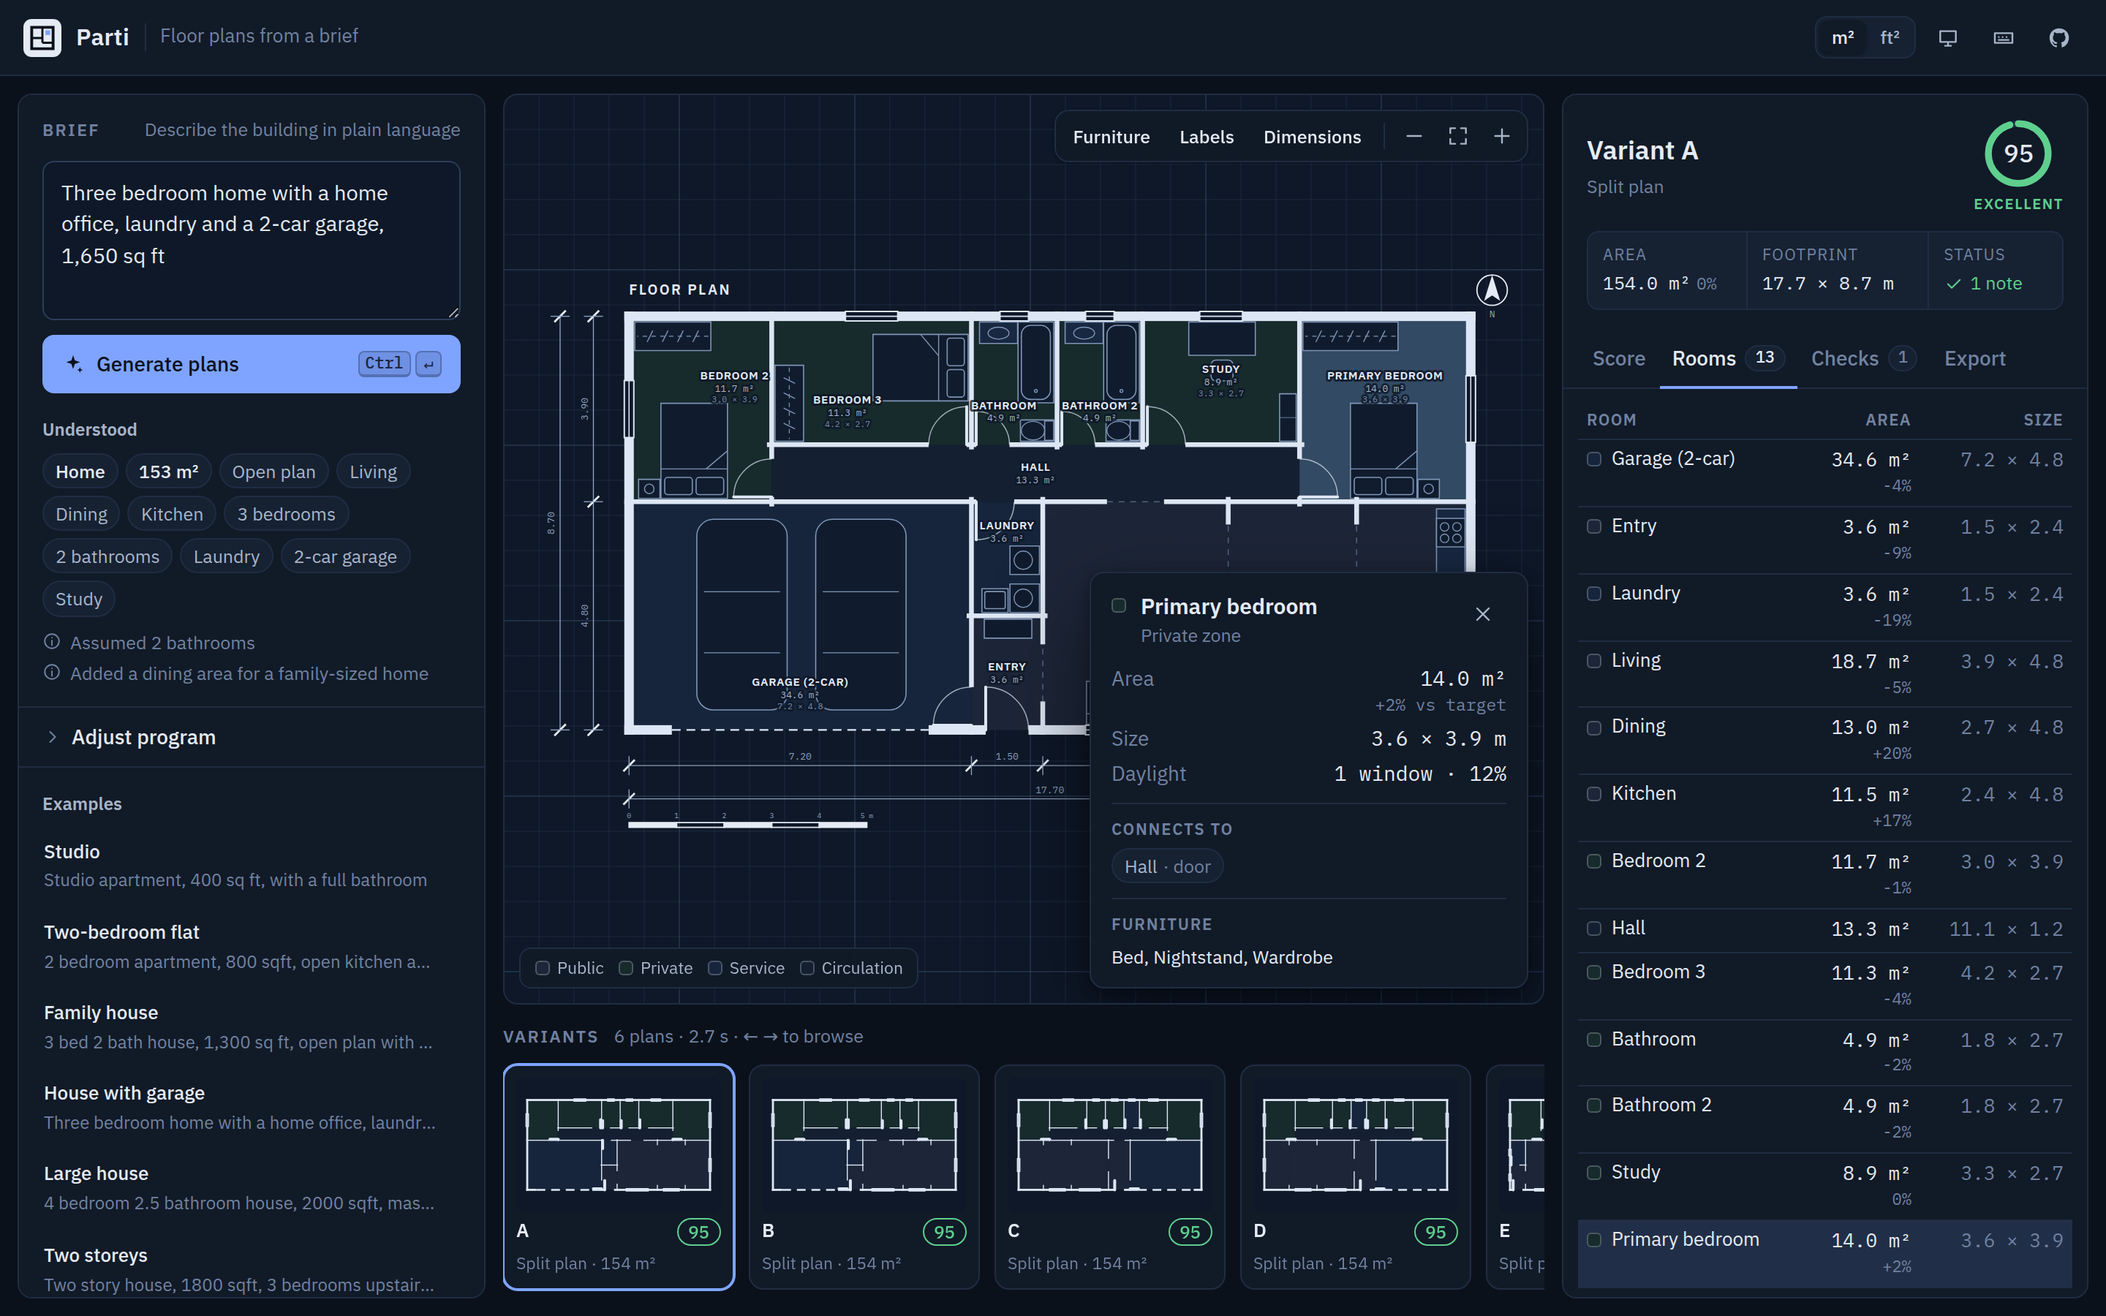
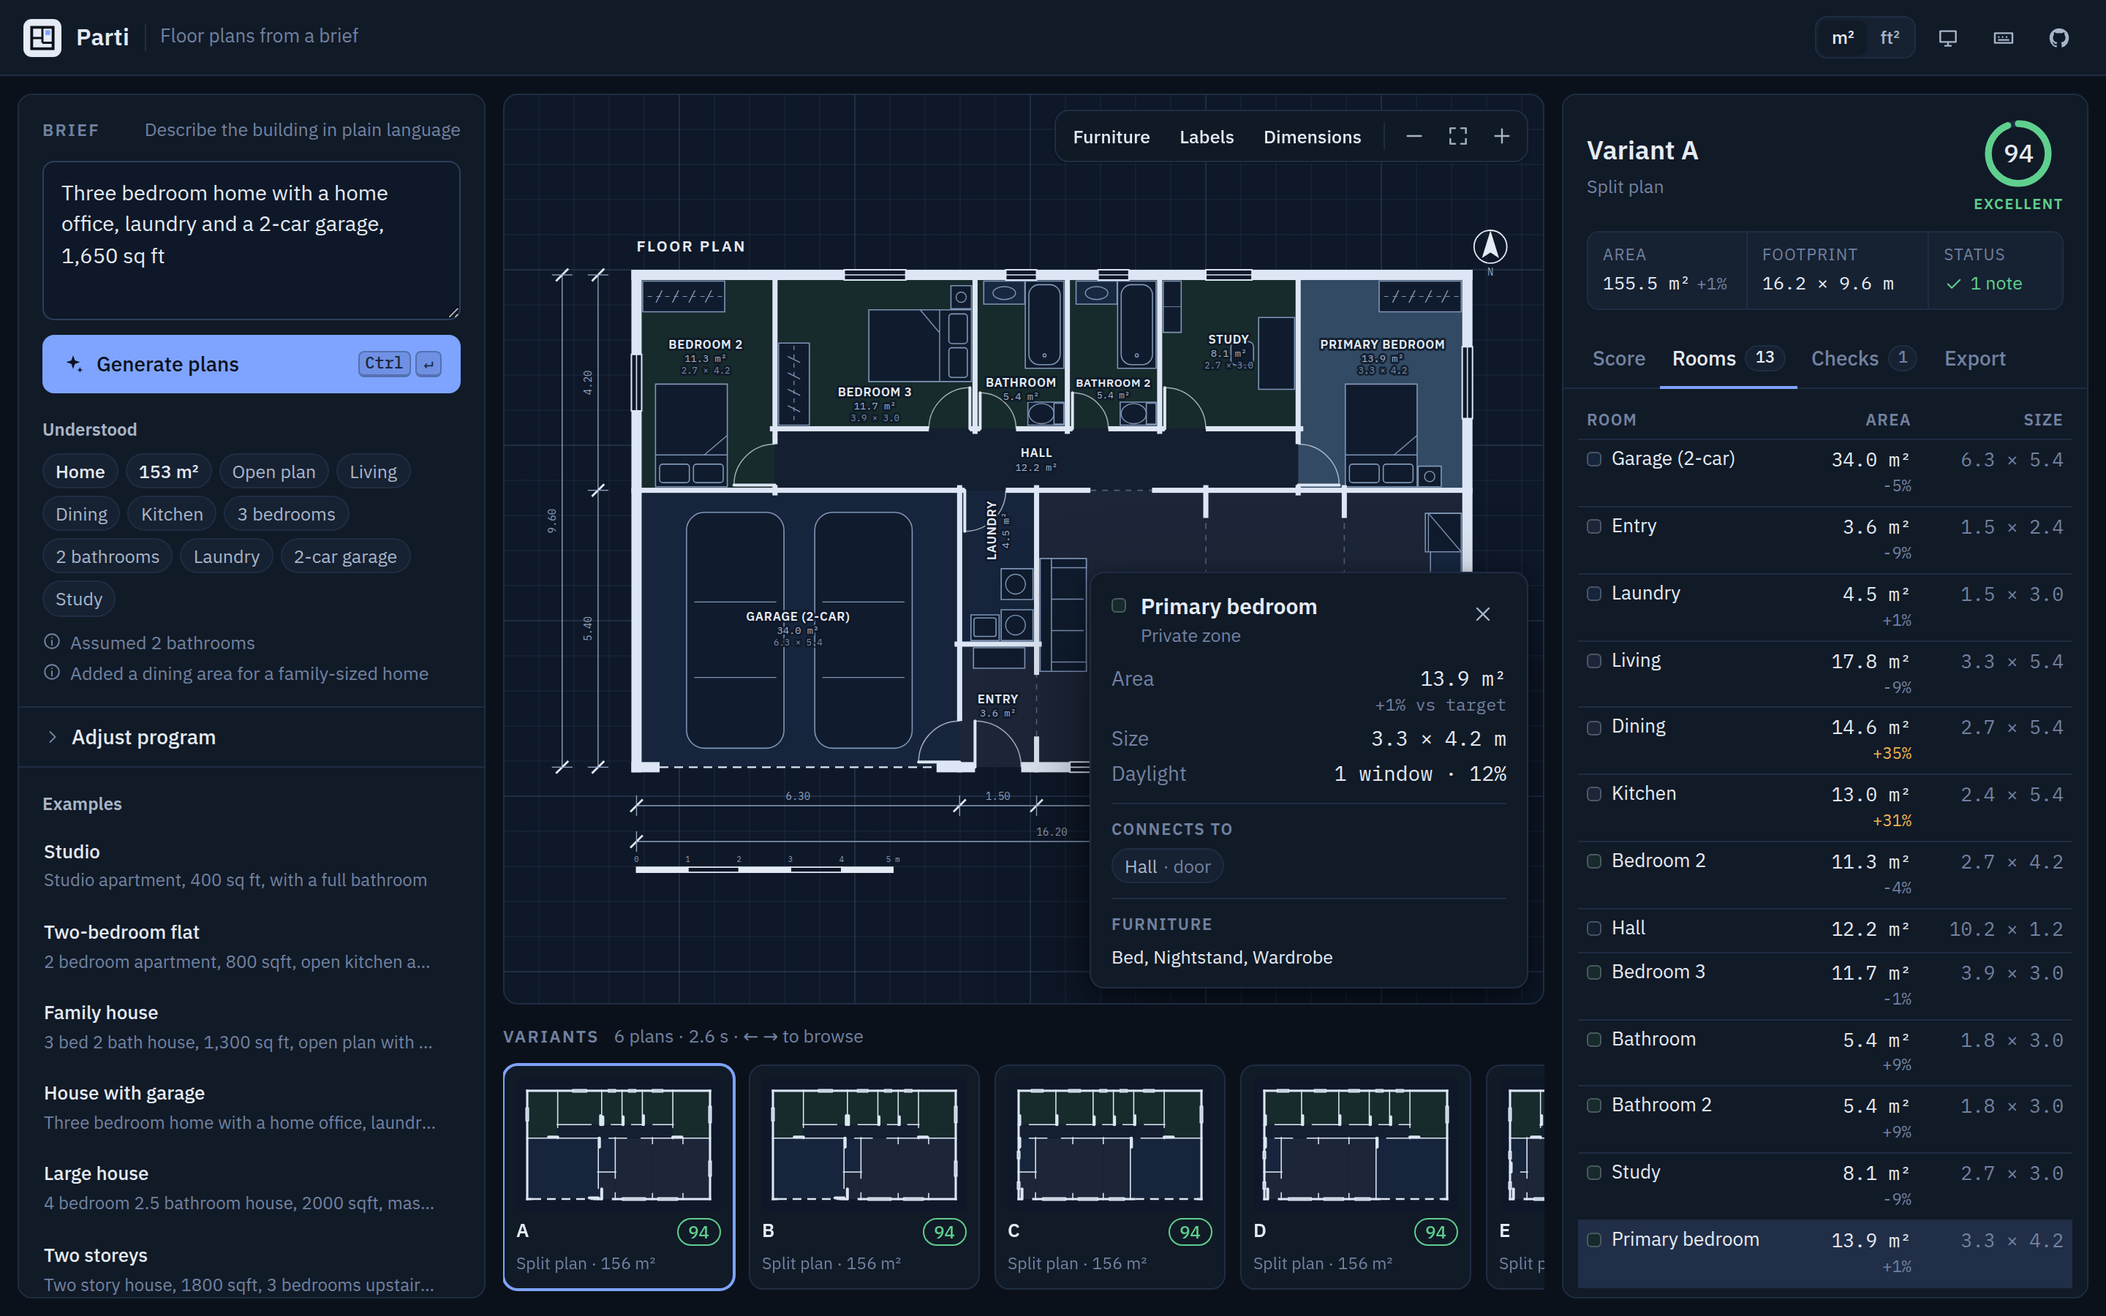
Engine: primary-only ensuites, hall-aware level balancing; docs
- Ensuites open only off the primary bedroom
- Level balancing uses sizes scaled to the brief and counts the hall a
  level will need, so upper floors are no longer overloaded
- Laundry no longer stacks on the facade side where it can be orphaned
- Rewrite docs/architecture.md and docs/api.md for the new engine
- Zone legend moves to the bottom-right and hides behind the inspector

Claude-Session: https://claude.ai/code/session_01J71XWsYR7v1R2hGFJEA2pc

diff --git a/frontend/src/App.tsx b/frontend/src/App.tsx
@@ -313,7 +313,7 @@ export default function App() {
               </div>
             )}
 
-            {candidate && (
+            {candidate && !selectedRoom && (
               <ul className="legend" aria-label="Zone colours">
                 {(['public', 'private', 'service', 'circulation'] as const).map((z) => (
                   <li key={z}>

diff --git a/frontend/src/styles/app.css b/frontend/src/styles/app.css
@@ -763,7 +763,7 @@ kbd {
 
 .legend {
   position: absolute;
-  left: 10px;
+  right: 10px;
   bottom: 10px;
   display: flex;
   gap: 10px;

diff --git a/backend/app/engine/program.py b/backend/app/engine/program.py
@@ -83,7 +83,9 @@ def _assign_floors(rooms: list[ProgramRoom], stories: int, commercial: bool, bas
             r.floor = upper[-1] if r.primary or r.type == "ensuite" else upper[i % len(upper)]
 
     def load(fl: int) -> float:
-        return sum(base[r.id] for r in rooms if r.floor == fl)
+        level = [r for r in rooms if r.floor == fl]
+        hall = HALL_SHARE * sum(base[r.id] for r in rooms) / stories if _needs_hall(level) else 0.0
+        return sum(base[r.id] for r in level) + hall
 
     # Rebalance so every level has a similar footprint: move flexible rooms
     # from the heaviest level to the lightest while that reduces the spread.
@@ -158,7 +160,10 @@ def build_program(brief: StructuredBrief) -> Program:
             )
 
     base = {r.id: _base_area(r, max(1, cars)) for r in rooms}
-    _assign_floors(rooms, brief.stories, commercial, base)
+    # Balance levels on sizes scaled to the brief: the garage stays fixed
+    # while bedrooms grow with the house.
+    _scale_targets(rooms, base, brief.target_area_sqm * (1 - HALL_SHARE))
+    _assign_floors(rooms, brief.stories, commercial, {r.id: r.target_area_sqm for r in rooms})
 
     per_floor_total = brief.target_area_sqm / brief.stories
     for fl in range(1, brief.stories + 1):

diff --git a/backend/app/engine/layout.py b/backend/app/engine/layout.py
@@ -281,9 +281,9 @@ def _orderings(rooms: list[ProgramRoom], role: str, k: int, start_bias: bool, en
 # --------------------------------------------------------------- stacking ----
 
 # Small rooms can share one column of a band: the piece that needs an
-# outside wall (entry, ensuite, laundry) sits on the facade side and the
+# outside wall (entry, ensuite) sits on the facade side and the
 # piece reached from the hall sits on the hall side.
-EXT_PIECES = {"entry", "ensuite", "laundry"}
+EXT_PIECES = {"entry", "ensuite"}
 HALL_PIECES = {"powder", "storage", "bathroom", "laundry"}
 STACK_MAX_AREA = 7.5
 

diff --git a/backend/app/engine/access.py b/backend/app/engine/access.py
@@ -132,7 +132,8 @@ def link_cost(server: PlacedRoom, target: PlacedRoom) -> float | None:
     if cost is None:
         return None
     if target.room.type == "ensuite":
-        return 0.5 if server.room.primary else 2.0
+        # The program always marks a primary bedroom when there is an ensuite.
+        return 0.5 if server.room.primary else None
     return cost
 
 

diff --git a/docs/architecture.md b/docs/architecture.md
@@ -1,59 +1,97 @@
-# System Architecture
+# Architecture
 
-## End-to-End Pipeline
+Parti is a FastAPI service (`backend/`) and a React client (`frontend/`). The service turns a brief into ranked plan candidates and renders drawings. The client is a viewer and editor for those results. All planning logic lives in the backend and is deterministic: the same brief always produces the same plans.
 
-1. Brief Interpreter (`brief_interpreter.py`)
-2. Program Generator (`program_generator.py`)
-3. Zoning Engine (`zoning_engine.py`)
-4. Layout Generator (`layout_generator.py`)
-5. Geometry Refiner (`geometry_refiner.py`)
-6. Openings Engine (`openings_engine.py`)
-7. Furniture Evaluator (`furniture_evaluator.py`)
-8. Validation Engine (`validation_engine.py`)
-9. Scoring Engine (`scoring_engine.py`)
-10. Drafting and Annotation (`drafting_engine.py`)
-11. Export Engine (`export_engine.py`)
-12. Parser (`parser_engine.py`)
+## Pipeline
 
-## Canonical Plan Representation
+```mermaid
+flowchart LR
+  A[Prompt] --> B[brief.py<br/>interpret]
+  B --> C[program.py<br/>rooms, levels, target areas]
+  C --> D[layout.py<br/>slicing-tree search]
+  D --> E[access.py<br/>doors and openings]
+  E --> F[windows.py]
+  F --> G[furniture.py]
+  G --> H[validation.py]
+  H --> I[scoring.py]
+  I --> J[pipeline.py<br/>rank and pick variants]
+  J --> K[drawing/<br/>SVG, PDF, PNG, DXF]
+```
 
-Each candidate includes:
-- rooms (polygon + area + dimensions + type + zone)
-- walls (segments + thickness + exterior/interior)
-- openings (doors/windows)
-- fixtures (furniture proxies)
-- zones
-- circulation graph edges
-- room schedule
-- scoring breakdown
-- validation report
+| Stage | Module | Output |
+|---|---|---|
+| Interpret | `engine/brief.py` | `StructuredBrief`: building type, area, levels, style, room counts, notes on assumptions |
+| Program | `engine/program.py` | `Program`: named rooms with level, zone and target area; hall and stair rooms where needed |
+| Layout | `engine/layout.py` | `Layout`: one rectangle per room, tiling a rectangular footprint on every level |
+| Access | `engine/access.py` | Doors, cased openings, the front door, garage doors, room connections |
+| Windows | `engine/windows.py` | Windows on exterior walls sized to a 10% glazing target |
+| Furniture | `engine/furniture.py` | Fixtures placed against walls, clear of door swings and passages |
+| Validate | `engine/validation.py` | Errors (plan unusable) and warnings (weaker choices) |
+| Score | `engine/scoring.py` | Seven weighted categories with explanations |
+| Draw | `drawing/` | A display list per level, written to SVG, PDF, PNG or DXF |
 
-## Candidate Generation Strategy
+`engine/rooms.py` is the room catalog: typical area, minimum side, zone, daylight needs and circulation behaviour for every room type. Other modules read from it instead of keeping their own tables.
 
-- Area-constrained rectangular envelope
-- Room strip partitioning by program and zone priorities
-- Minimum width constraints by room type
-- Multiple variants (ordering + envelope ratio perturbation)
+## Layout engine
 
-## Validation Rules
+Every plan is a slicing tree. A `Split` divides its rectangle along one axis and gives the pieces to its children; a `Leaf` is a room. Sizes are allocated in integer units of a 0.3 m planning grid, proportional to target areas, with minimum sizes enforced by water-filling. Because each split partitions its rectangle exactly, rooms never overlap and never leave voids.
 
-- positive room area
-- room-type minimum dimensions
-- overlap detection
-- door references validity
-- window sanity checks
+Templates produce the tree shapes:
 
-## Exports
+| Template | Shape | Used for |
+|---|---|---|
+| Split plan | Public rooms along the street front, a hall, private rooms behind. Optional full-depth rooms at either end of the back band. | Most homes and offices |
+| Garage column | A full-depth garage at one end, optionally with laundry or storage behind it | Homes with a garage |
+| Wing plan | A public block at one end, private rooms on a double-loaded hall | Homes with three or more bedrooms |
+| Stacked levels | Split plans per level with a shared footprint; the stair column and front band depth are pinned so the stair lines up | Multi-level briefs |
 
-- JSON canonical: from generation response
-- SVG: line-weighted walls, labels, legends, schedule
-- PDF: vector linework and labels via ReportLab
-- DXF: LWPolyline + text labels
-- PNG: quick raster preview
+Small rooms can share one column of a band (an entry with a powder room behind it, a bathroom with the ensuite behind it). The facade-side piece keeps its outside wall and the hall-side piece keeps hall access.
 
-## Parser
+The search enumerates band assignments, room orders, stacking, end rooms and six footprint proportions. A cheap pre-score prunes this to about 160 layouts. Those are evaluated without furniture, the best dozen are furnished and fully validated, and up to six structurally different valid plans are returned. If no layout is valid, the brief area is raised by 12% and the search retried (up to twice), with a note added to the brief.
 
-- edge detection (Canny)
-- wall segment extraction (Hough lines)
-- room contour extraction (contours + poly approx)
-- basic labels array (OCR placeholder for extension)
+## Access planning
+
+Starting from the room with the front door (or the stair landing on upper levels), `access.py` grows a spanning tree over rooms that share a wall long enough for a door. Each step takes the cheapest allowed connection. The cost table encodes preferences such as "bedrooms open off the hall" and "an ensuite only opens off a bedroom". Pass-through is limited to circulation-capable rooms (hall, entry, living spaces). Touching open-plan rooms are also joined by wide openings. Rooms the tree cannot reach make the plan invalid.
+
+## Scoring
+
+| Category | Measures |
+|---|---|
+| Area fit | Total area against the target, and each room against its target |
+| Proportions | Aspect ratios and minimum widths, weighted by area |
+| Daylight | Habitable rooms reaching 10% glazing |
+| Circulation | Hall share of the floor area, whether enclosed rooms open off circulation, reachability |
+| Privacy | Whether bedrooms, bathrooms and offices are entered from halls rather than living spaces |
+| Adjacency | Program preferences met (kitchen next to dining, ensuite next to the primary bedroom) |
+| Furnishability | Essential furniture that fits (bed, kitchen appliances, bathroom fixtures, cars) |
+
+Weights shift with the brief's priorities (daylight, privacy, compact). Plans with blocking errors are capped at 55.
+
+## Drawings
+
+`drawing/sheet.py` turns a candidate into a `Sheet`: layers of primitives (polygons, lines, arcs, circles, ellipses, text) in plan metres. The writers are thin:
+
+- `svg.py`: interactive markup for the web client, or a standalone 1:100 drawing with a title block
+- `pdf.py`: A3 landscape at the largest standard scale that fits
+- `png.py`: supersampled raster preview
+- `dxf.py`: R2010 in metres with one CAD layer per drawing layer (`A-WALL`, `A-DOOR`, `A-GLAZ`, `A-FURN`, ...)
+
+In app mode the SVG carries both unit systems (`.u-m` and `.u-i` text) and `data-room` attributes. The client styles it with CSS variables (`frontend/src/styles/plan.css`), so themes, units and layer toggles change without a server round trip. The class names are the contract between the two.
+
+## Frontend
+
+```
+src/
+  App.tsx              state, data flow, shortcuts, share links
+  api.ts, types.ts     API client and types mirroring the backend schemas
+  components/
+    BriefPanel         prompt, interpretation, program editor, examples, recent briefs
+    PlanCanvas         drawing view: viewBox pan and zoom, pinch, hover, selection
+    VariantStrip       candidate thumbnails
+    DetailsPanel       score, room schedule, checks, export
+    RoomInspector      per-room details overlay
+  lib/                 units, share-link encoding, storage helpers
+  styles/              tokens (light and dark), plan styles, app layout
+```
+
+Preferences (units, theme, layers, recent briefs) live in `localStorage`. The current brief is encoded in the URL hash, so a link regenerates the same plans.

diff --git a/docs/api.md b/docs/api.md
@@ -1,34 +1,114 @@
-# API Reference
+# API reference
 
-Base URL: `http://localhost:8000`
+Base URL: `http://localhost:8000`. Interactive documentation is served at `/docs` (Swagger UI) and `/redoc`. Request and response models are defined in `backend/app/models/schemas.py`.
 
 ## Endpoints
 
-- `POST /api/generate`
-  - input: `{ "prompt": "..." }`
-  - output: full brief/program/candidates/best id
+| Method | Path | Purpose |
+|---|---|---|
+| GET | `/health` | Liveness check and version |
+| GET | `/api/examples` | Sample briefs `[{title, prompt}]` |
+| GET | `/api/room-types` | Room catalog for program editors |
+| POST | `/api/interpret` | Prompt to structured brief |
+| POST | `/api/generate` | Prompt or brief to ranked plan candidates |
+| POST | `/api/validate` | Re-check any candidate |
+| POST | `/api/export/{format}` | Download a candidate as `svg`, `pdf`, `png` or `dxf` |
 
-- `POST /api/parse`
-  - input: multipart upload (`file`)
-  - output: parsed walls and room polygons
+## POST /api/interpret
 
-- `POST /api/validate`
-  - input: `{ "candidate": { ... } }`
-  - output: validation report
+```json
+{ "prompt": "3 bed 2 bath house, 1,300 sq ft, open plan" }
+```
 
-- `POST /api/export/svg`
-- `POST /api/export/pdf`
-- `POST /api/export/dxf`
-- `POST /api/export/png`
-  - input: `{ "candidate": { ... } }`
-  - output: downloadable file
+Returns a `StructuredBrief`:
 
-- `POST /api/export/svg-inline`
-  - input: `{ "candidate": { ... } }`
-  - output: svg markup text
+```json
+{
+  "raw_prompt": "3 bed 2 bath house, 1,300 sq ft, open plan",
+  "building_type": "residential",
+  "target_area_sqm": 120.77,
+  "target_area_sqft": 1300.0,
+  "area_source": "stated",
+  "stories": 1,
+  "style": "open_plan",
+  "rooms": [
+    { "type": "entry", "count": 1 },
+    { "type": "living", "count": 1 },
+    { "type": "dining", "count": 1 },
+    { "type": "kitchen", "count": 1 },
+    { "type": "bedroom", "count": 3 },
+    { "type": "bathroom", "count": 2 }
+  ],
+  "preferences": { "daylight": false, "privacy": false, "compact": false },
+  "notes": ["Added a dining area for a family-sized home"]
+}
+```
 
-- `GET /api/examples`
-  - output: list of sample prompts
+The interpreter understands digits and number words, hyphenated counts (`2-bedroom`), shorthand (`3br/2ba`), half baths (`2.5 bath` becomes two bathrooms and a powder room), areas in square feet or square metres (`1,200 sq ft`, `85 m2`), stories, garages (`2-car garage`), home offices, and commercial programs (reception, private and open offices, meeting rooms, break and server rooms). Anything it assumes is listed in `notes`.
 
-- `GET /health`
-  - output: `{ "status": "ok" }`
+## POST /api/generate
+
+Send either a prompt or a brief (for example one returned by `/api/interpret` and then edited). `count` is the number of variants to return (1 to 12, default 6).
+
+```json
+{ "prompt": "2 bedroom apartment, 800 sqft", "count": 6 }
+```
+
+```json
+{ "brief": { "...": "StructuredBrief" }, "count": 3 }
+```
+
+Response:
+
+| Field | Description |
+|---|---|
+| `brief` | The brief that was used. The area may be raised if the request was too small, with a note. |
+| `program` | Rooms with level, zone and target area, plus adjacency preferences |
+| `candidates` | Plans ranked best first. Only valid plans are returned when any exist. |
+| `best_candidate_id` | Id of the first candidate |
+| `drawings` | Interactive SVG per candidate id, one string per level |
+| `elapsed_ms` | Generation time |
+
+A candidate contains:
+
+| Field | Description |
+|---|---|
+| `id`, `label`, `strategy` | `variant-a`, `Variant A`, `Split plan` |
+| `floors`, `footprint` | Level count and footprint `{width_m, depth_m, area_sqm}` |
+| `rooms` | `{id, type, name, zone, floor, polygon, width_m, depth_m, area_sqm, target_area_sqm, primary, capacity}` |
+| `walls` | Unique wall segments with thickness and an `exterior` flag |
+| `doors` | `{kind, floor, room_a, room_b, segment, width, hinge, swing}`; kinds are `entry`, `door`, `opening`, `garage` |
+| `windows` | `{room_id, floor, segment, width}` |
+| `fixtures` | `{room_id, floor, type, footprint, facing}` |
+| `connections` | Room graph: `{from_room, to_room, kind}` with kinds `door`, `opening`, `stair` |
+| `score` | `{total, grade, categories[], summary}` |
+| `validation` | `{valid, issues[]}`; each issue has `severity`, `code`, `message`, `room_ids` |
+
+Coordinates are metres. `x` runs along the street front and `y` runs from the front facade (0) to the back.
+
+## POST /api/validate
+
+```json
+{ "candidate": { "...": "Candidate" }, "target_area_sqm": 74.3 }
+```
+
+Returns a `ValidationReport`. Issue codes include `access.entry`, `access.unreachable`, `dims.min_width`, `dims.garage`, `dims.aspect`, `daylight.none`, `daylight.low`, `fixtures.missing`, `privacy.bedroom`, `privacy.bathroom`, `privacy.garage`, `area.total`, `area.cramped`, `area.oversized`, `circulation.share`, `geometry.overlap` and `geometry.void`.
+
+## POST /api/export/{format}
+
+```json
+{ "candidate": { "...": "Candidate" }, "units": "imperial", "title": "Smith residence" }
+```
+
+| Format | Content |
+|---|---|
+| `svg` | Vector drawing at 1:100 when printed at 100% |
+| `pdf` | A3 landscape sheet at the largest standard scale that fits, with title block |
+| `png` | Raster preview, about 2400 px wide |
+| `dxf` | R2010, metres, layers `A-WALL`, `A-DOOR`, `A-GLAZ`, `A-FURN`, `A-AREA`, `A-ANNO-TEXT`, `A-ANNO-DIMS`, `A-ANNO-SYMB` |
+
+The response is a file download named `parti-<candidate id>.<format>`.
+
+## Errors
+
+Validation problems in the request return `422` with FastAPI's standard `detail` body. A brief with no rooms, or one that cannot be laid out, also returns `422` with a message in `detail`.
